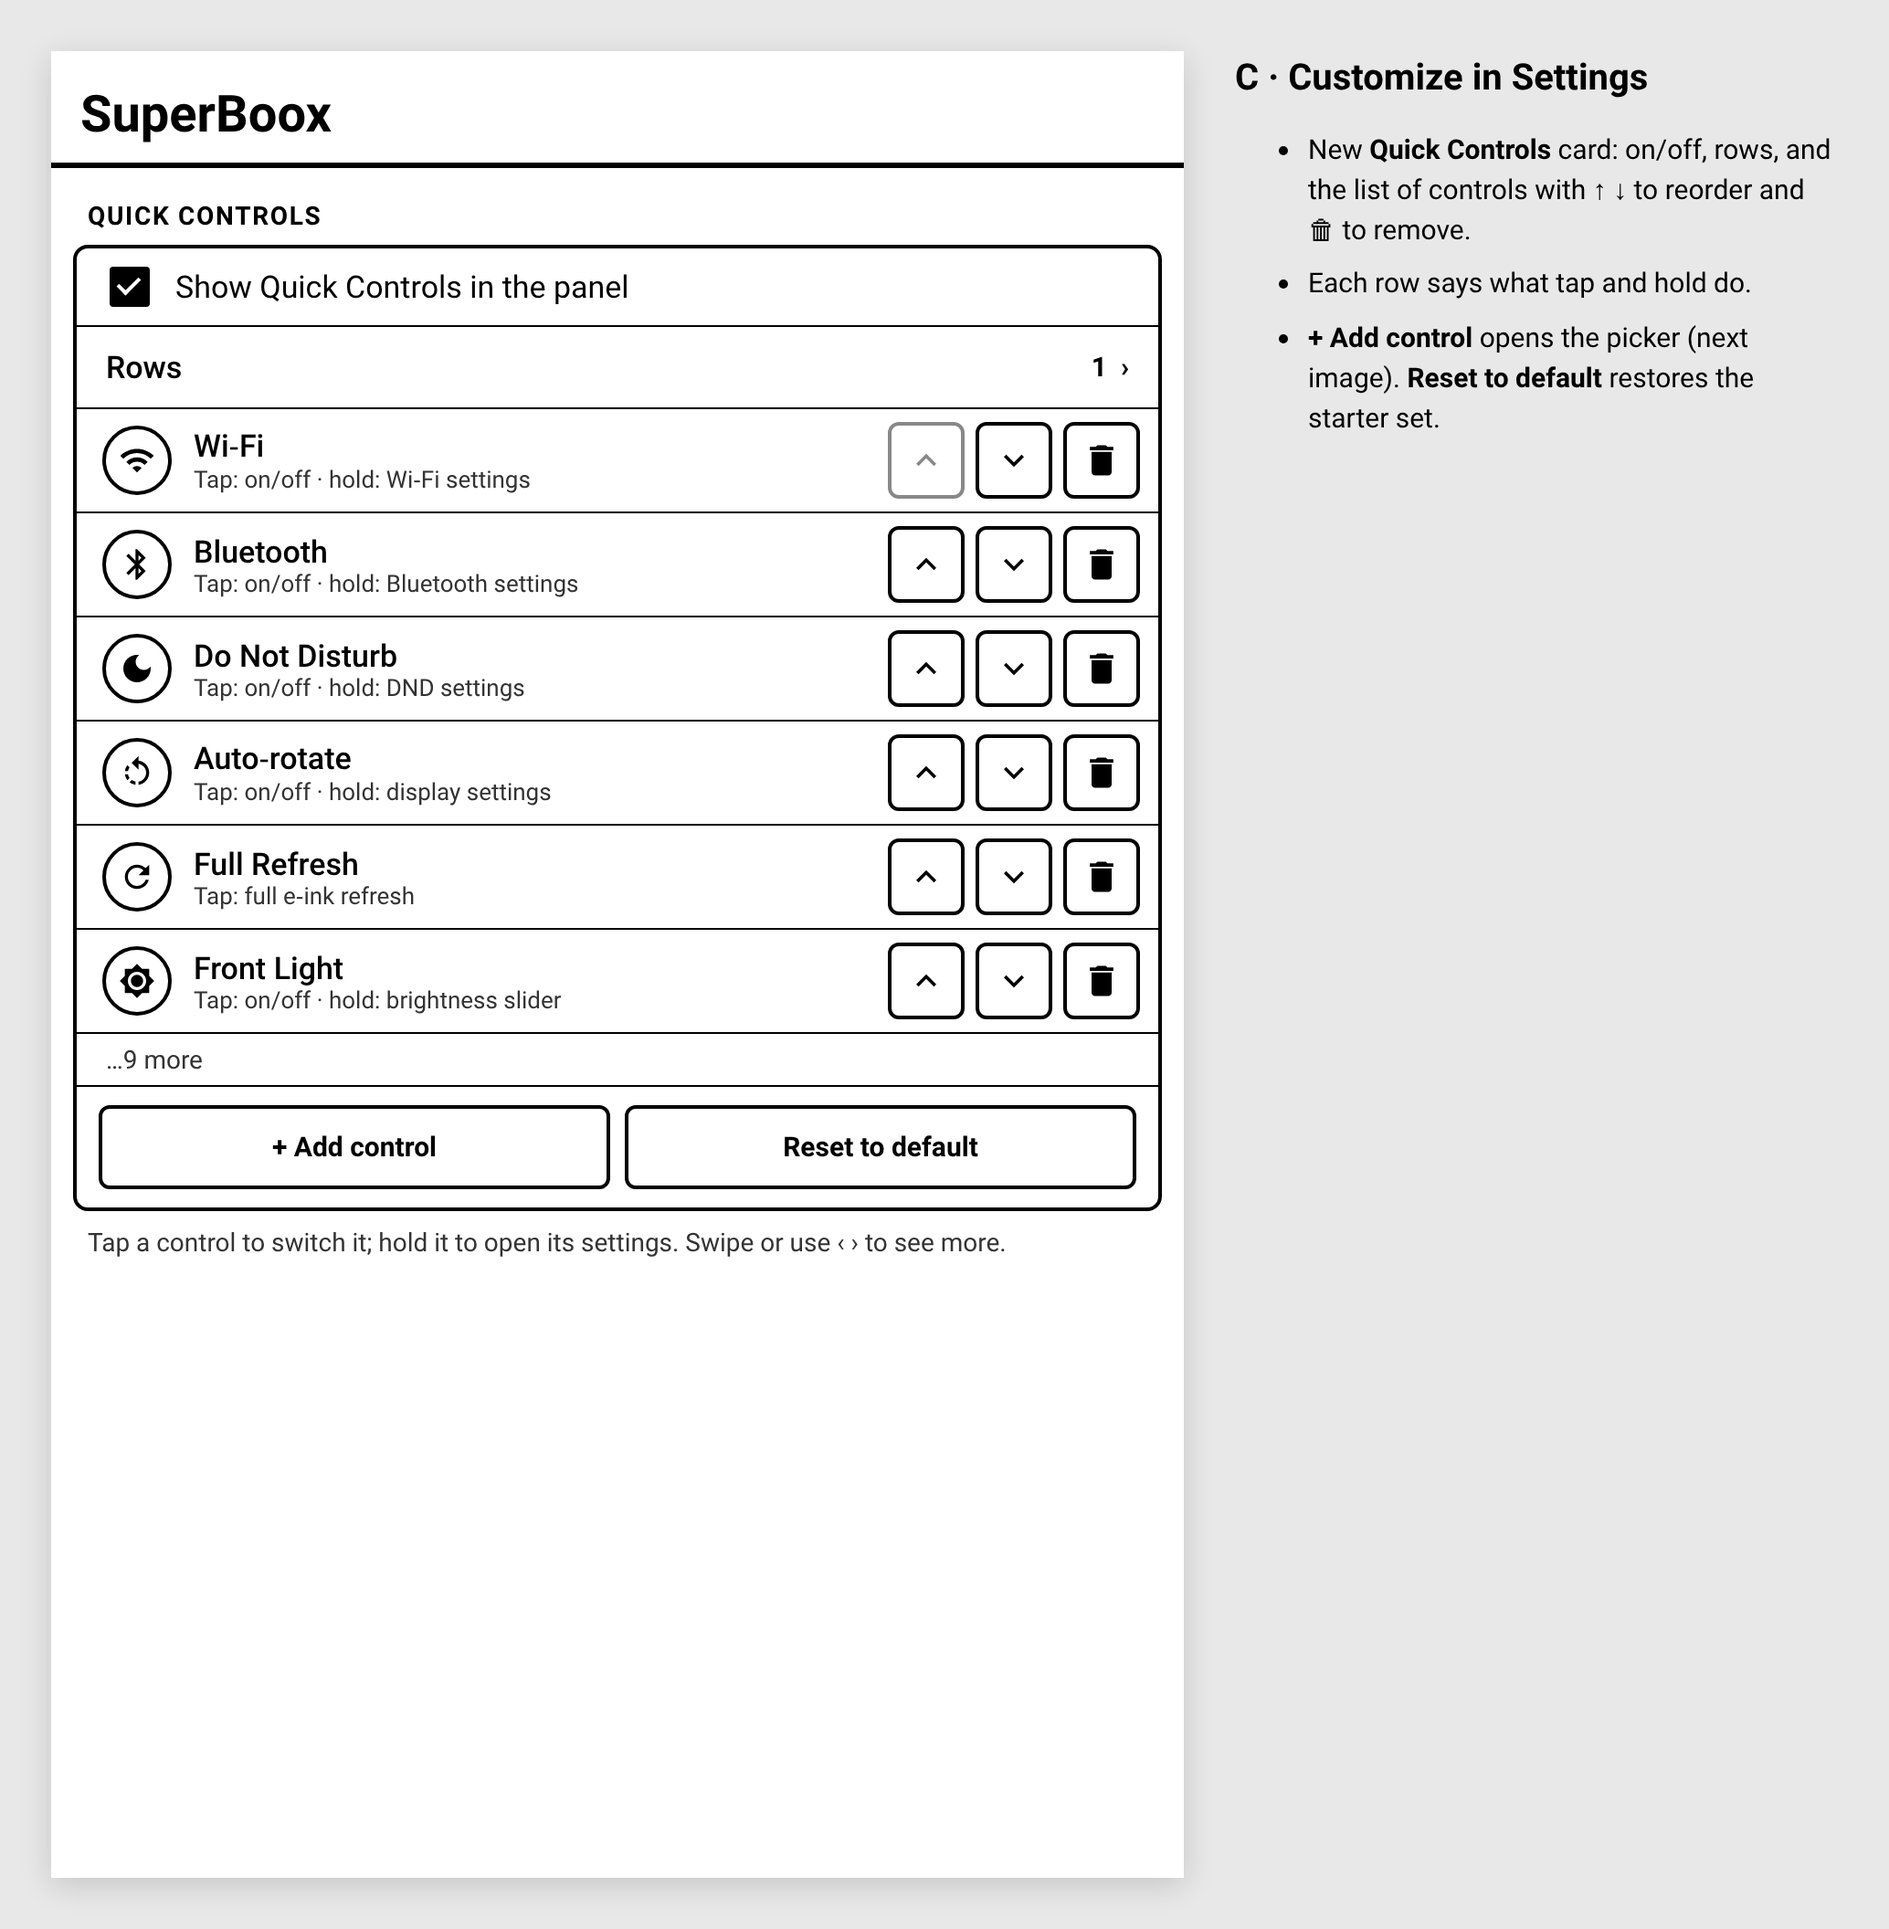
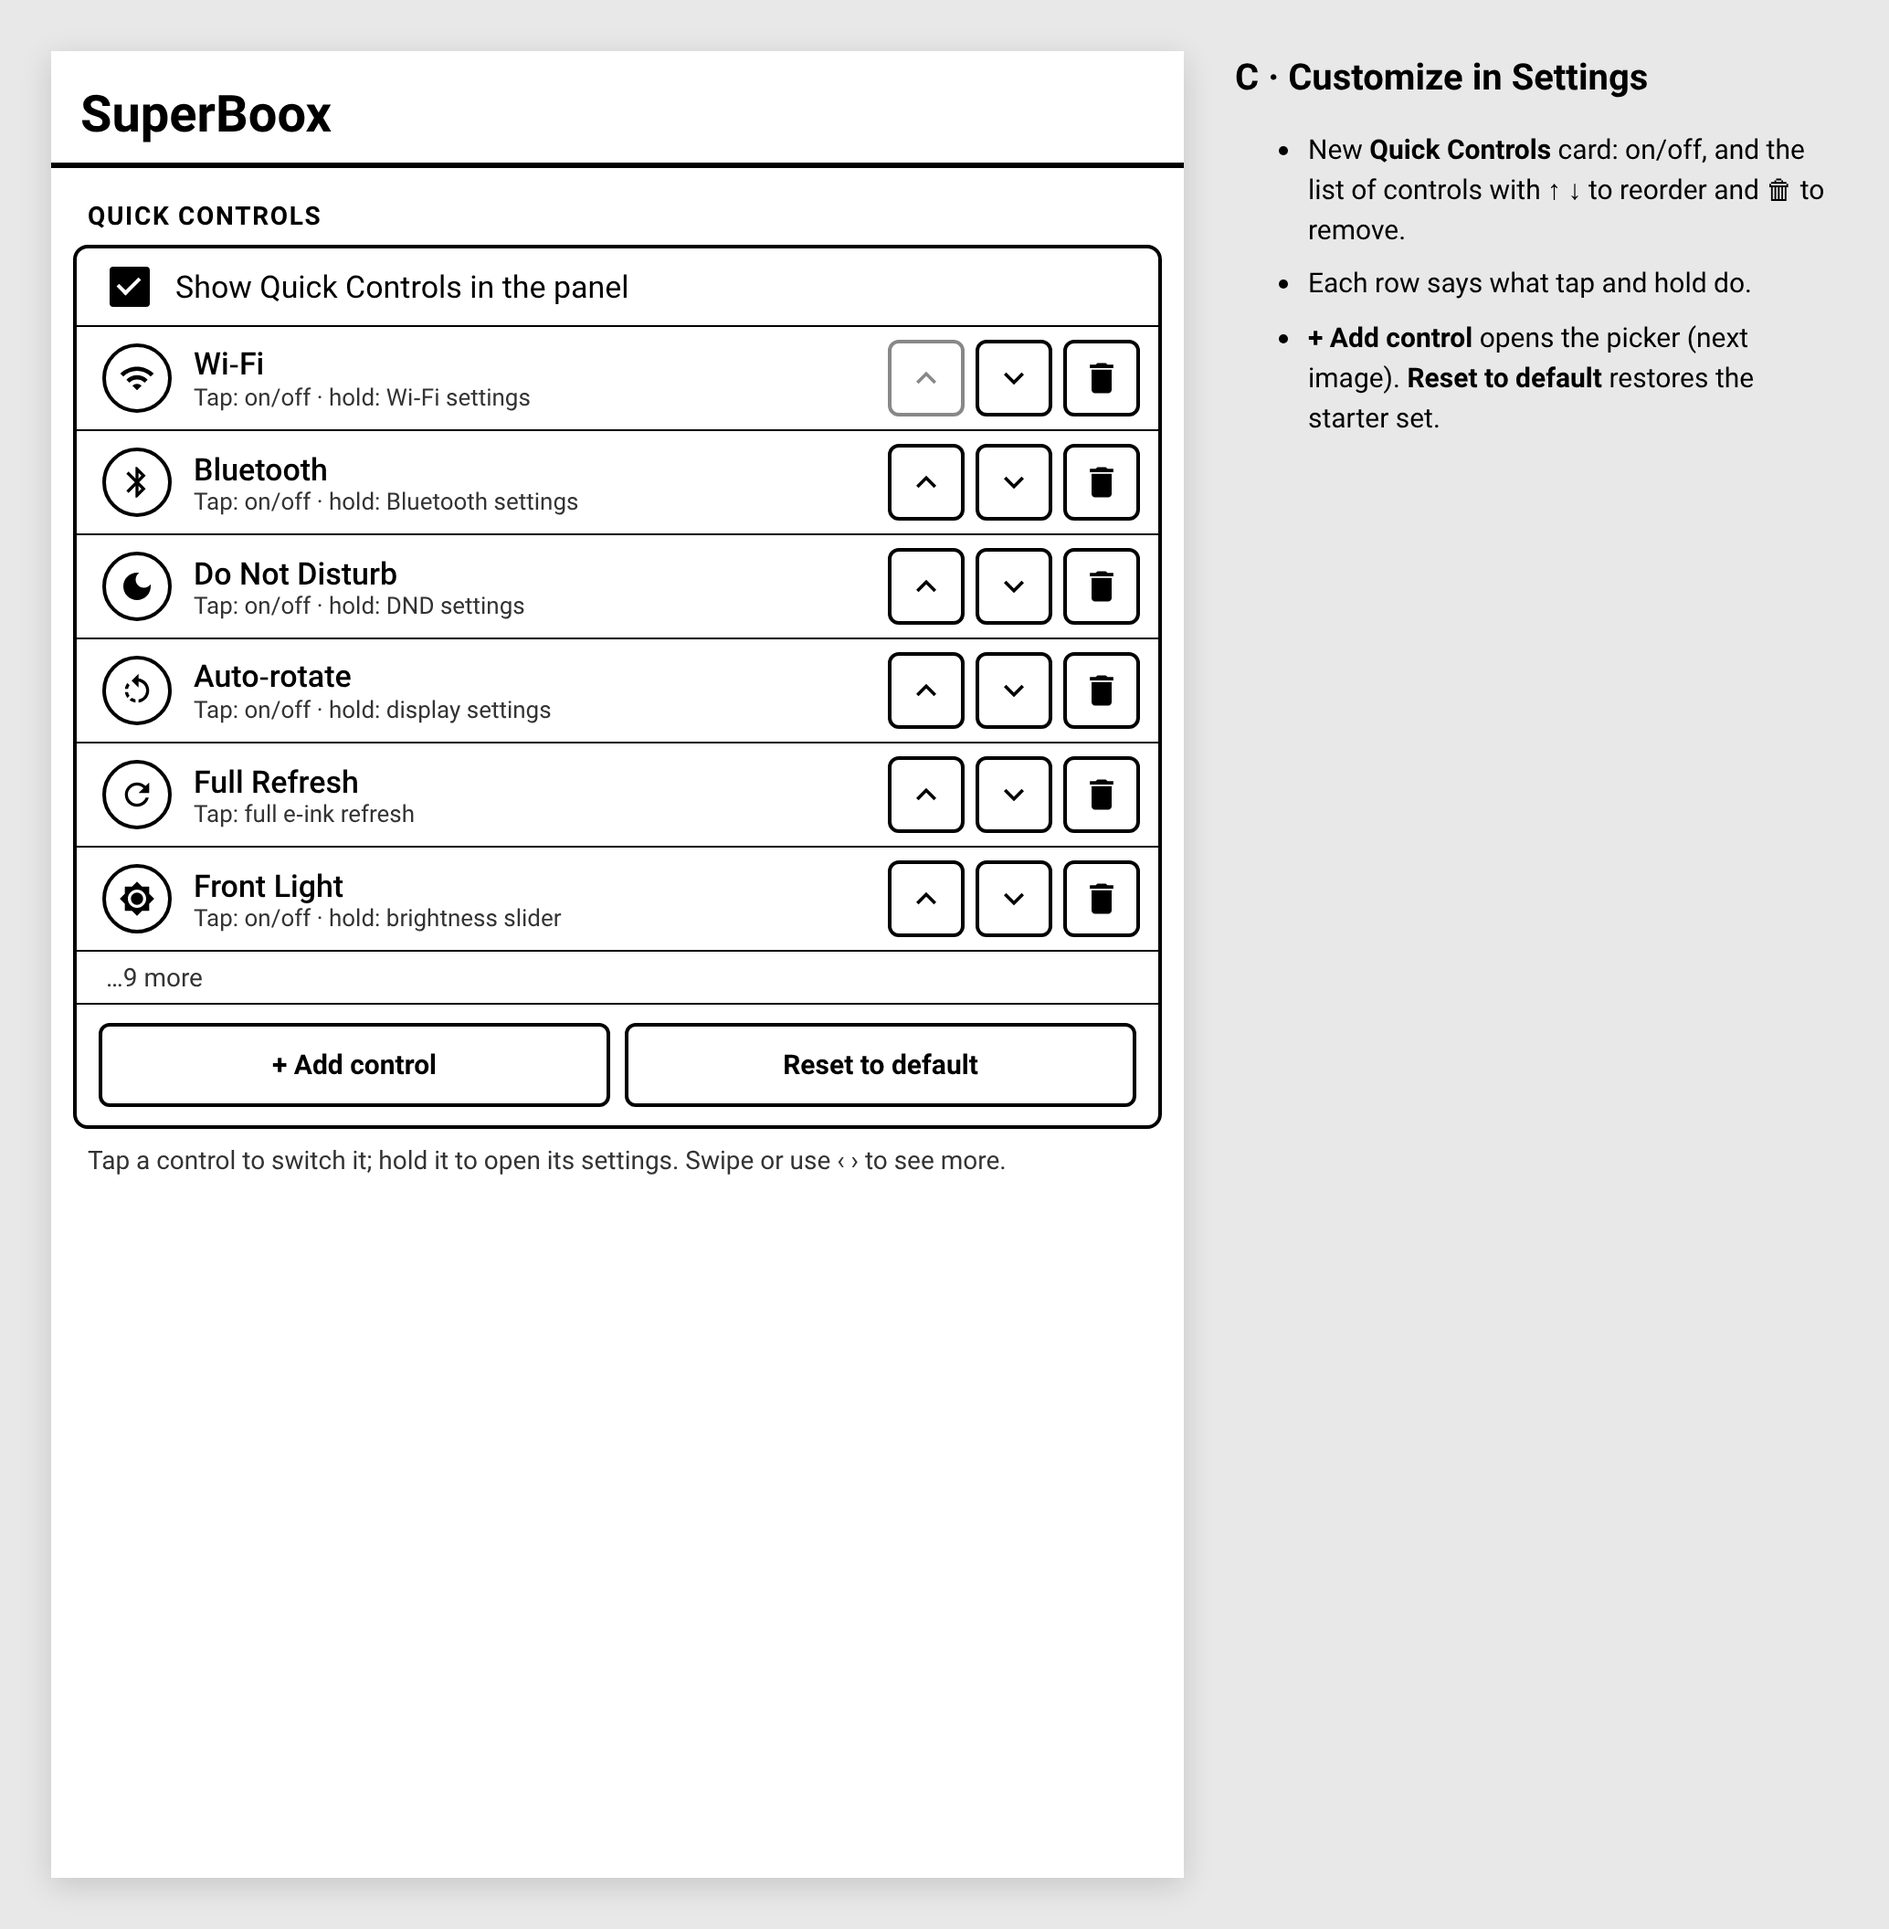
Quick Controls test: read the BOOX Control Center in the debug report
Building the debug report now opens the Control Center behind the screen
hold, lists its windows and each tile's name and on/off state, and closes
it again. Nothing is tapped. This checks whether Quick Controls can drive
Wi-Fi, Bluetooth and BOOX tiles through the Control Center.

Mockups: Quick Controls is one row with paging (no Rows setting).

Claude-Session: https://claude.ai/code/session_018hzrAjqxwJr5HFxLW5Xn9C

Changed region(s): [[0.0309, 0.1875, 0.619, 0.6562], [0.6809, 0.0625, 0.9594, 0.125]]

diff --git a/app/src/main/java/com/superboox/quickaccess/ControlCenterProbe.kt b/app/src/main/java/com/superboox/quickaccess/ControlCenterProbe.kt
@@ -1,0 +1,74 @@
+package com.superboox.quickaccess
+
+import android.accessibilityservice.AccessibilityService
+import android.os.Build
+import android.os.Handler
+import android.os.Looper
+import android.view.accessibility.AccessibilityNodeInfo
+import android.view.accessibility.AccessibilityWindowInfo
+
+/**
+ * Test for Quick Controls: can SuperBoox see the BOOX Control Center's tiles
+ * and whether each is on? Opens the Control Center (Android's Quick Settings),
+ * lists its windows and the tiles' names and states, then closes it. Taps
+ * nothing. Runs only when the debug report is built.
+ */
+object ControlCenterProbe {
+    private const val OPEN_WAIT_MS = 1_500L
+
+    fun run(service: AccessibilityService, done: (List<String>) -> Unit) {
+        val handler = Handler(Looper.getMainLooper())
+        val opened = service.performGlobalAction(AccessibilityService.GLOBAL_ACTION_QUICK_SETTINGS)
+        if (!opened) return done(listOf("open Control Center: refused"))
+        handler.postDelayed({
+            val out = ArrayList<String>()
+            out += "open Control Center: ok"
+            runCatching { read(service, out) }.onFailure { out += "read failed: ${it.javaClass.simpleName} ${it.message}" }
+            val closed = if (Build.VERSION.SDK_INT >= Build.VERSION_CODES.S) {
+                service.performGlobalAction(AccessibilityService.GLOBAL_ACTION_DISMISS_NOTIFICATION_SHADE)
+            } else {
+                service.performGlobalAction(AccessibilityService.GLOBAL_ACTION_BACK)
+            }
+            out += "close Control Center: ${if (closed) "ok" else "refused"}"
+            done(out)
+        }, OPEN_WAIT_MS)
+    }
+
+    private fun read(service: AccessibilityService, out: MutableList<String>) {
+        val windows = service.windows
+        for (w in windows) {
+            val root = w.root
+            val pkg = root?.packageName?.toString()
+            out += "window type=${typeName(w.type)} pkg=$pkg title=${w.title}"
+            if (root == null || pkg == service.packageName) continue
+            if (w.type != AccessibilityWindowInfo.TYPE_SYSTEM && pkg?.contains("systemui") != true) continue
+            val tiles = LinkedHashSet<String>()
+            fun walk(n: AccessibilityNodeInfo, depth: Int) {
+                if (depth > 40 || tiles.size >= 80) return
+                val label = (n.contentDescription ?: n.text)?.toString()?.replace("\n", " ")?.trim().orEmpty()
+                if (label.isNotEmpty() && (n.isClickable || n.isCheckable || n.isLongClickable)) {
+                    val state = buildList {
+                        if (n.isCheckable) add(if (n.isChecked) "on" else "off")
+                        if (n.isSelected) add("selected")
+                        if (Build.VERSION.SDK_INT >= Build.VERSION_CODES.R) n.stateDescription?.let { add("\"$it\"") }
+                        if (n.isLongClickable) add("hold")
+                        n.viewIdResourceName?.substringAfter(":id/")?.let { add("#$it") }
+                    }
+                    tiles += "${label.take(40)} [${n.className?.toString()?.substringAfterLast('.')}${if (state.isEmpty()) "" else "; " + state.joinToString()}]"
+                }
+                for (i in 0 until n.childCount) n.getChild(i)?.let { walk(it, depth + 1) }
+            }
+            walk(root, 0)
+            out += "  tiles (${tiles.size}): " + tiles.joinToString(" | ").ifEmpty { "none readable" }
+        }
+    }
+
+    private fun typeName(t: Int) = when (t) {
+        AccessibilityWindowInfo.TYPE_APPLICATION -> "app"
+        AccessibilityWindowInfo.TYPE_SYSTEM -> "system"
+        AccessibilityWindowInfo.TYPE_INPUT_METHOD -> "keyboard"
+        AccessibilityWindowInfo.TYPE_ACCESSIBILITY_OVERLAY -> "overlay"
+        AccessibilityWindowInfo.TYPE_SPLIT_SCREEN_DIVIDER -> "divider"
+        else -> t.toString()
+    }
+}

diff --git a/docs/mockups/quick-controls.html b/docs/mockups/quick-controls.html
@@ -127,7 +127,6 @@ function settings(dialog) {
   return `<div class="set"><div class="title">SuperBoox</div><div class="rule3"></div>
     <div class="sec">QUICK CONTROLS</div><div class="card">
       <div class="check"><div class="box on"></div>Show Quick Controls in the panel</div>
-      <div class="choice">Rows<b>1&nbsp; ›</b></div>
       ${list.map((c, i) => ctl(c, i, ALL.length, HOW[c[0]])).join("")}
       <div style="padding:6px 16px;font-size:14px;color:#333">…9 more</div>
       <div class="btns"><div class="btn">+ Add control</div><div class="btn">Reset to default</div></div></div>
@@ -149,7 +148,7 @@ function settings(dialog) {
 const SCREENS = {
   panel1: () => panel(1, 0, 3, `<div class="bubble" style="left:40px;top:194px">Hold → Wi‑Fi settings</div>`) + notes("A · Quick Controls, 1 row (default)", [
     "The Back / Home row becomes <b>Quick Controls</b>: round tiles like the BOOX Control Center. <b>Black = on</b>, outlined = off.",
-    "5 per row, 1 row by default so Quick Access keeps its space. <b>‹ 1 / 3 ›</b> or a sideways swipe pages through the rest.",
+    "One row of 5, so Quick Access keeps its space. <b>‹ 1 / 3 ›</b> or a sideways swipe pages through the rest.",
     "<b>Tap</b> switches it. <b>Hold</b> opens its settings page (Wi‑Fi, Bluetooth, Do Not Disturb, display…).",
     "Still off by default; you turn it on in Settings.",
   ]),
@@ -158,7 +157,7 @@ const SCREENS = {
     "Order is yours: the first page is whatever you put first.",
   ]),
   settings: () => settings(false) + notes("C · Customize in Settings", [
-    "New <b>Quick Controls</b> card: on/off, rows, and the list of controls with ↑ ↓ to reorder and 🗑 to remove.",
+    "New <b>Quick Controls</b> card: on/off, and the list of controls with ↑ ↓ to reorder and 🗑 to remove.",
     "Each row says what tap and hold do.",
     "<b>+ Add control</b> opens the picker (next image). <b>Reset to default</b> restores the starter set.",
   ]),

diff --git a/app/src/main/java/com/superboox/quickaccess/DebugReport.kt b/app/src/main/java/com/superboox/quickaccess/DebugReport.kt
@@ -57,6 +57,9 @@ object DebugReport {
         line("note activities:")
         BooxNotes.describeActivities(context, notesPkg).forEach { line("  $it") }
 
+        section("Control Center (Quick Controls test)")
+        controlCenter().forEach { line(it) }
+
         section("Settings")
         line("edge=${prefs.edge} trigger=${prefs.trigger} handleEnabled=${prefs.handleEnabled} showMarker=${prefs.showHandle}")
         line("strip width=${prefs.handleWidthDp}dp height=${prefs.handleHeightPct}% top=${prefs.handleTopPct}% panelWidth=${prefs.panelWidthPct}% systemRow=${prefs.showSystemActions}")
@@ -69,6 +72,21 @@ object DebugReport {
         section("Event log (${log.size} entries, newest last)")
         log.forEach { line(it) }
     }.let { if (it.length > MAX_CHARS) "…(truncated)\n" + it.takeLast(MAX_CHARS) else it }
+
+    /** Runs [ControlCenterProbe] through the service and waits for it (called off the main thread). */
+    private fun controlCenter(): List<String> {
+        val service = QuickAccessService.instance ?: return listOf("service not running")
+        val result = java.util.concurrent.atomic.AtomicReference<List<String>>(listOf("timed out"))
+        val latch = java.util.concurrent.CountDownLatch(1)
+        android.os.Handler(android.os.Looper.getMainLooper()).post {
+            service.probeControlCenter {
+                result.set(it)
+                latch.countDown()
+            }
+        }
+        latch.await(8, java.util.concurrent.TimeUnit.SECONDS)
+        return result.get()
+    }
 
     /**
      * Compact outline of a window's view tree (class, id, text, flags). Logged

diff --git a/app/src/main/java/com/superboox/quickaccess/QuickAccessService.kt b/app/src/main/java/com/superboox/quickaccess/QuickAccessService.kt
@@ -255,6 +255,21 @@ class QuickAccessService : AccessibilityService(), SharedPreferences.OnSharedPre
         cover.show { noteOpener.open(prefs.notesPackage, path, inNotes, noteId) }
     }
 
+    /**
+     * Quick Controls test (debug report): reads the BOOX Control Center behind
+     * the screen hold, taps nothing.
+     */
+    fun probeControlCenter(done: (List<String>) -> Unit) {
+        hidePanel()
+        cover.show {
+            ControlCenterProbe.run(this) { lines ->
+                cover.hide(600)
+                lines.forEach { DebugLog.i("control-center", it) }
+                done(lines)
+            }
+        }
+    }
+
     /** Called by [NoteOpener] when it's done, either way. */
     fun noteOpenFinished(opened: Boolean) {
         // On success give the note a moment to draw before revealing it.
